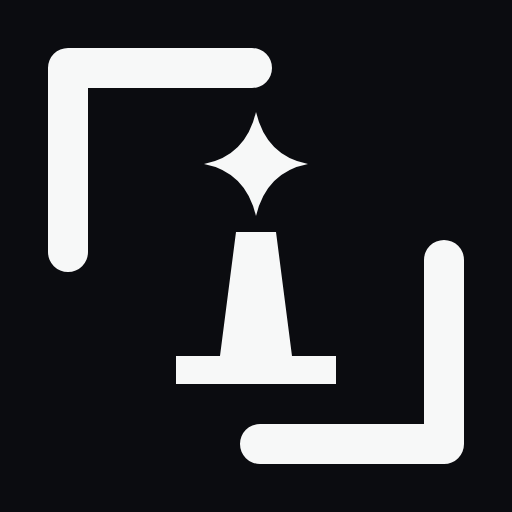
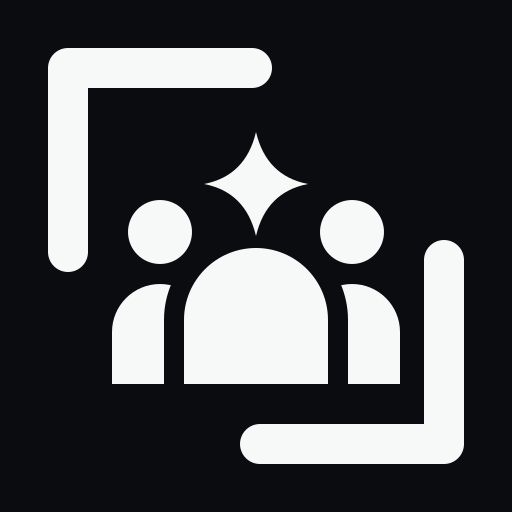
feat: the citizens-and-agent glyph for cyber-civitas
Three citizens, the front one an agent whose head is the AI spark,
replacing the tower. Org avatar renders regenerated from it.

Changed region(s): [[0.2188, 0.2188, 0.7812, 0.75]]

diff --git a/AGENTS.md b/AGENTS.md
@@ -34,16 +34,24 @@ pnpm typecheck    # astro check, 0 errors
 
 ## The glyph
 
-The mark is a slender tower on a base with a four-point AI spark at its tip (candidate I in the
-2026-10-04 glyph study), inside the shared cyber-* frame. The icon-system rule asks for a literal
-glyph; the package name is the metaphor, so drawing the structure is the literal reading.
+The mark is three citizens, the front one an agent whose head is the four-point AI spark
+(candidate D in the 2026-10-04 civitas glyph study), inside the shared cyber-* frame. The name
+is about the community, not the building, so the glyph draws the citizens: people and agents as
+one citizenry. At 16px the spark fills in and the mark reads as a group of three, which stays
+legible; from 32px up the spark shows.
 
-Backups, if I proves too thin at favicon size:
+The two figures behind are cut by a mask: the front figure stroked at width 10, so a 5-unit gap
+separates them at every size. Keep the mask when editing the shapes, or the figures merge into
+one blob at favicon size.
 
-- **A**, stacked layers: `M52 32h24v14H52zM42 57h44v14H42zM32 82h64v14H32z`
-- **N**, arcology under an AI spark:
-  `M32 96 45 62h38l13 34Z M49 80h8v8h-8z M60 80h8v8h-8z M71 80h8v8h-8z M64 28q2.6 11 13 13q-10.4 2-13 13q-2.6-11-13-13q10.4-2 13-13Z`
-  with `fill-rule="evenodd"` so the windows cut out.
+Fallback, if the spark ever needs to go: **C**, the same group with a round head
+(`<circle cx="64" cy="46" r="11"/>`) in place of the spark.
 
-A glyph change touches all three files: `public/img/logo.svg`, `src/assets/logo-light.svg`,
-`src/assets/logo-dark.svg`.
+Rejected in the study: the tower and arcology glyphs (they draw the building the rename moved
+away from), stacked layers (a diagram, not a community), a ring of citizens (a loading spinner at
+16px), and a hemicycle assembly (one-pixel seats at 16px).
+
+A glyph change touches all three SVGs, `public/img/logo.svg`, `src/assets/logo-light.svg` and
+`src/assets/logo-dark.svg`, and the two org avatar renders, `brand/org-avatar-light.png` and
+`brand/org-avatar-dark.png` (512px, rendered from the header pair). GitHub takes only raster
+images for an avatar, so those stay PNG.
